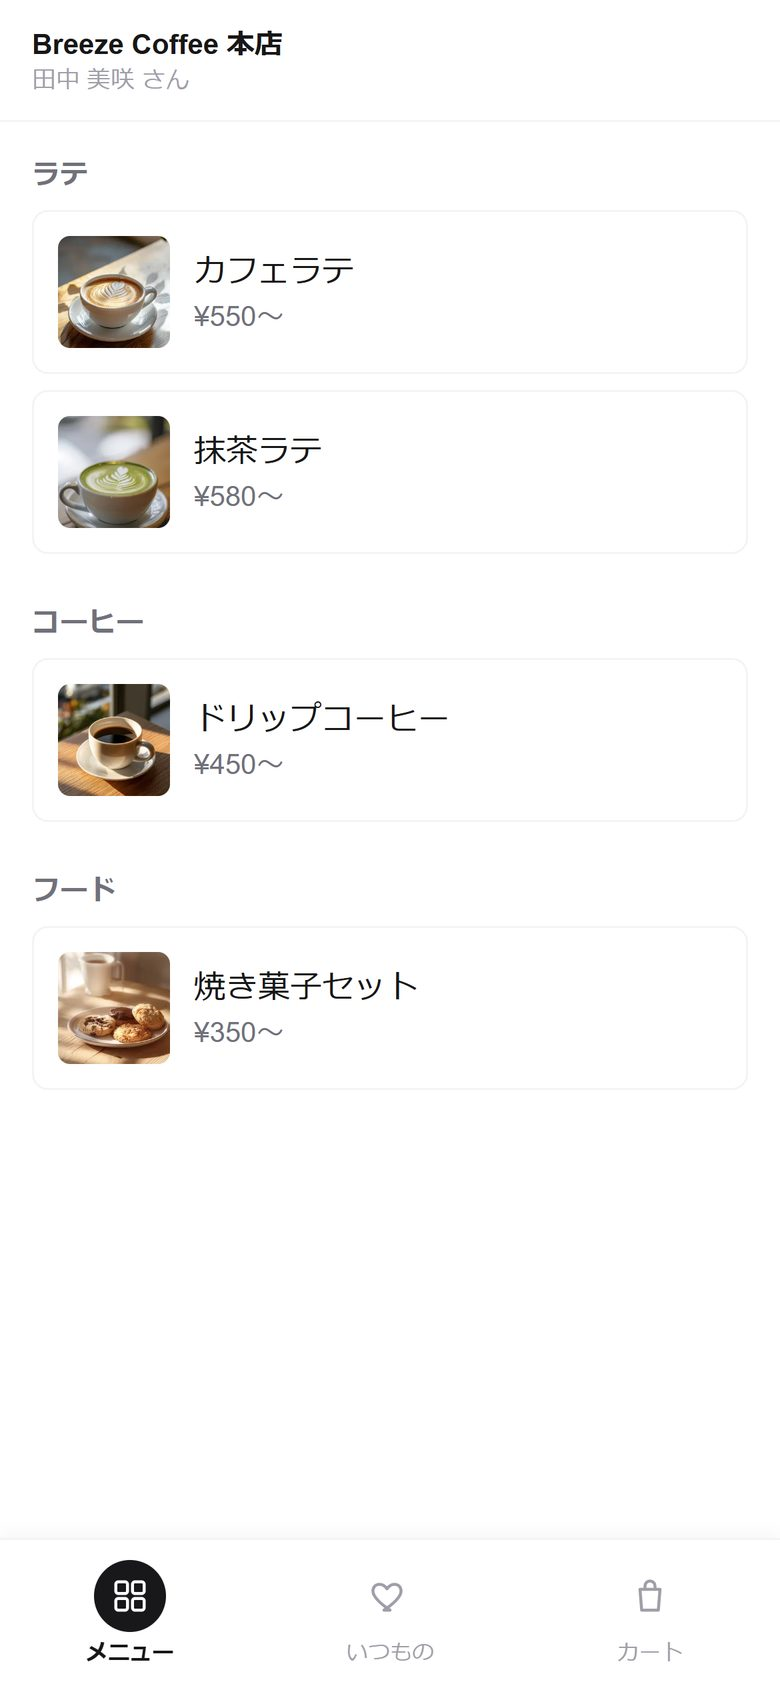
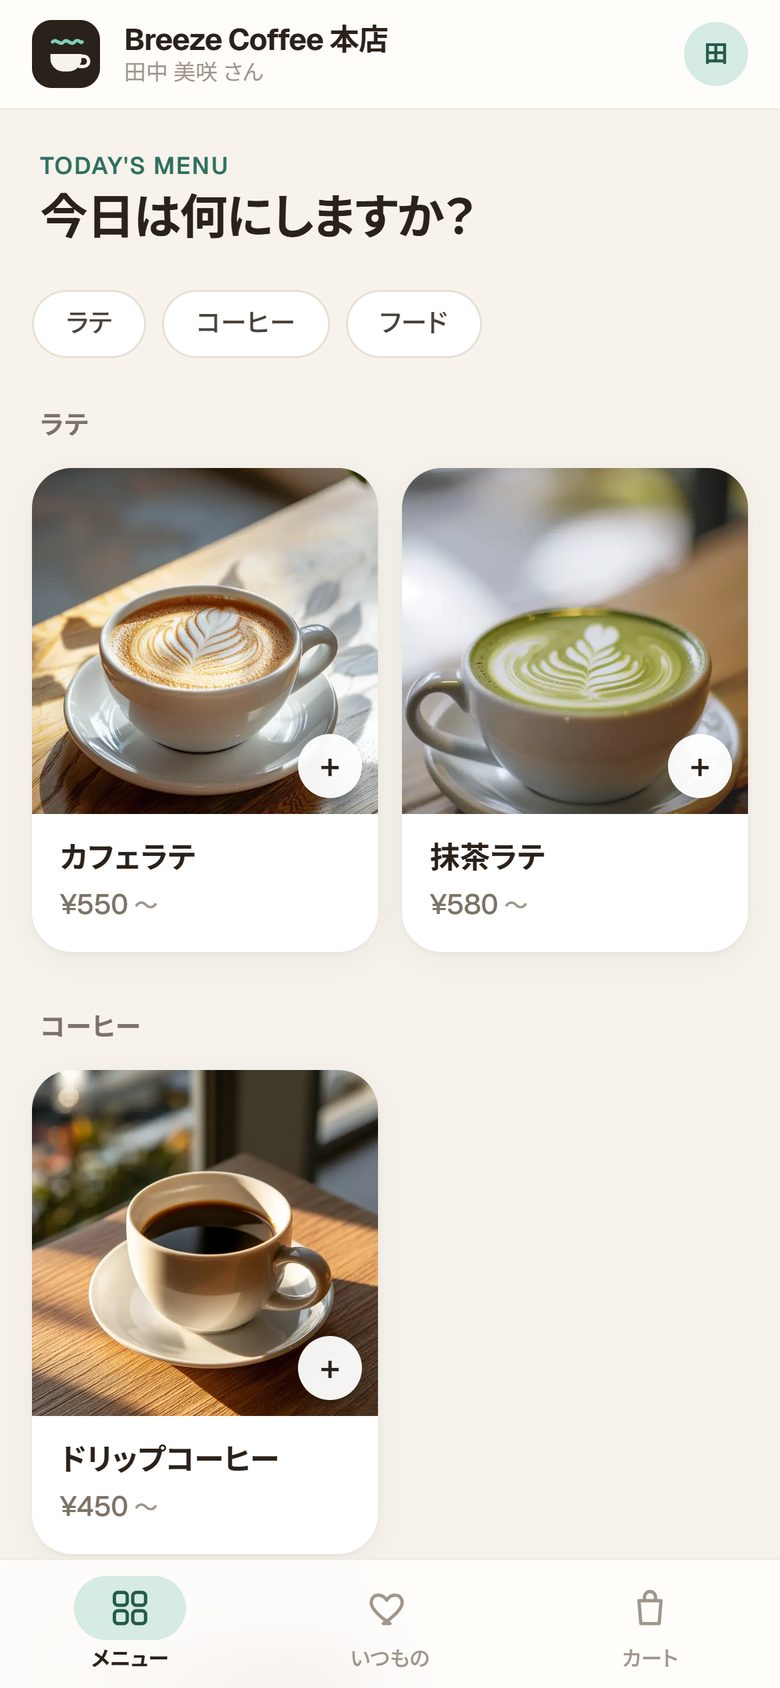
Works: replace Breeze Coffee screenshots with the redesigned UI
Same ten screens, re-exported from the new design (cream and dark-brown
colours, photo cards, logo). Status-strip colour for the phone mock-ups is
updated to match, and the menu caption mentions the photo cards. The staff
list screenshot is still left out because it shows login IDs.

diff --git a/src/data/works.ts b/src/data/works.ts
@@ -332,30 +332,30 @@ export const works: Work[] = [
       },
       {
         src: "/works/breeze-coffee/01-customer-menu.jpg",
-        alt: "Breeze Coffee のお客さん用メニュー画面",
+        alt: "Breeze Coffee のお客さん用メニュー画面。写真つきのカードで商品が並ぶ",
         device: "mobile",
-        statusBg: "#ffffff",
-        caption: "お客さん：カテゴリごとにメニューを選ぶ",
+        statusBg: "#fefdfa",
+        caption: "お客さん：写真つきのメニューから選ぶ",
       },
       {
         src: "/works/breeze-coffee/02-customer-options.jpg",
         alt: "Breeze Coffee の商品詳細。サイズ・温度・ミルクの変更を選べる",
         device: "mobile",
-        statusBg: "#ffffff",
+        statusBg: "#fefdfa",
         caption: "お客さん：サイズ・温度・ミルクを、その場で選べる",
       },
       {
         src: "/works/breeze-coffee/03-customer-ticket.jpg",
         alt: "Breeze Coffee の注文チケット。QRコードと注文内容が表示されている",
         device: "mobile",
-        statusBg: "#ffffff",
+        statusBg: "#fefdfa",
         caption: "お客さん：注文するとQRチケットが発行される",
       },
       {
         src: "/works/breeze-coffee/04-customer-receipt.jpg",
         alt: "Breeze Coffee のレシート画面",
         device: "mobile",
-        statusBg: "#ffffff",
+        statusBg: "#fefdfa",
         caption: "お客さん：会計後は、レシートもスマホで見られる",
       },
     ],
